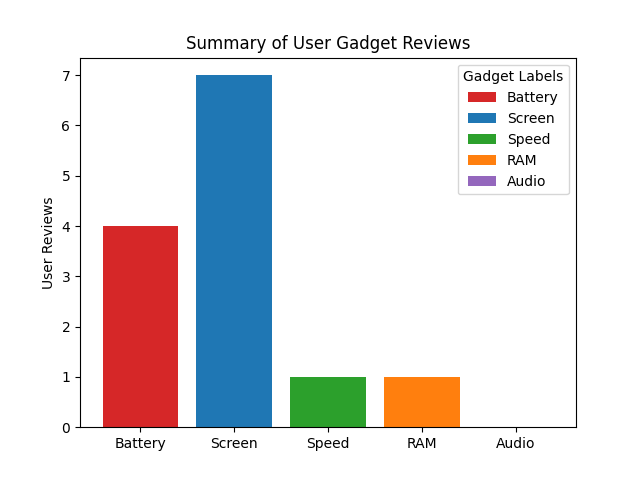
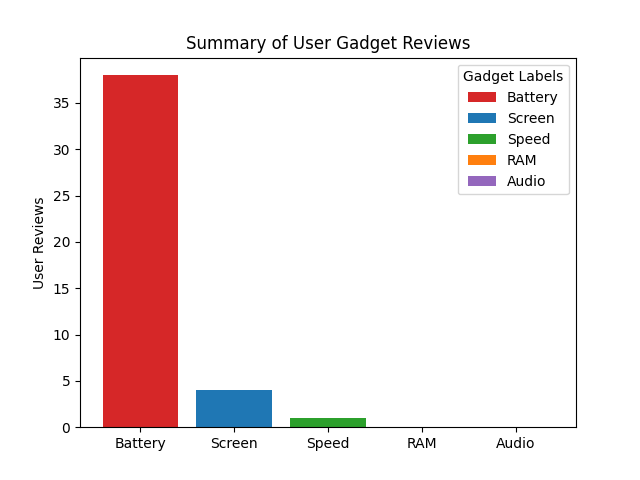
modified:   app.py 	modified:   static/HTML/images/Summary_Graph.png 	modified:   templates/index.html

diff --git a/templates/index.html b/templates/index.html
@@ -226,7 +226,7 @@
               <div class="card-header card-bgcolor-head"><i class="fa-solid fa-cart-shopping"></i> Recommendation Result from Prediction</div>
               <div class="card-body overflow-auto" style="height: 250px;">
                   <p class="card-text ">Based on Model Simulated using LSTM
-                    {{str_result_reco}}
+                    {{str_result_reco | safe }}
                   </p>
               </div>
           </div>

diff --git a/app.py b/app.py
@@ -28,35 +28,56 @@ app = Flask(__name__)
 mysqlconn = mysql.connector.connect(host="localhost", user="root", password="", database="dbmain_dissertation")
 sqlengine = create_engine('mysql+mysqlconnector://root@localhost/dbmain_dissertation', pool_recycle=1800)
 
-class ProductLSTM(nn.Module):
-    def __init__(self, vocab_size, embed_dim, hidden_dim):
-        super().__init__()
-        self.embed = nn.Embedding(vocab_size, embed_dim, padding_idx=0)
-        self.lstm = nn.LSTM(embed_dim, hidden_dim, batch_first=True)
-        self.fc1 = nn.Linear(hidden_dim + 1, 64)
-        self.fc2 = nn.Linear(64, 1)
-
-    def forward(self, x, rating):
-        embedded = self.embed(x)
-        _, (h_n, _) = self.lstm(embedded)
-        h_n = h_n.squeeze(0)
-        combined = torch.cat((h_n, rating.unsqueeze(1)), dim=1)
-        out = torch.relu(self.fc1(combined))
-        return torch.sigmoid(self.fc2(out))
-    
 MAX_LEN = 30
 
-@app.route("/generaterecomendation", methods=["GET", "POST"])
+def sub_datacleaning_reco(temp_df):
+    # custom_stopwords = ['also', 'dad', 'mom', 'kids', 'christmas', 'hoping']
 
-# -------------------------------------------------- 
-# For Index.html
-# --------------------------------------------------
+    #Remove Column Username since this column is unnecessary
+    temp_df["Reviews"] = temp_df["Reviews"].str.lower()
+
+    # All records with not value for REVIEWS will be dropped
+    if temp_df["Reviews"].isnull().values.any() == True:
+        temp_df = temp_df.dropna(subset=['Reviews'], axis=0,how='any',inplace=False)
+
+    # Replace all special characters into black spaces which will also be remove
+    temp_df["Reviews"] = temp_df["Reviews"].str.replace("\n",' ')
+    temp_df["Reviews"] = temp_df["Reviews"].str.replace("\r",' ')
+    temp_df["Reviews"] = temp_df["Reviews"].replace(r'http\S+', '', regex=True)
+    temp_df["Reviews"] = temp_df["Reviews"].replace(r"x000D", '', regex=True)
+    temp_df["Reviews"] = temp_df["Reviews"].replace(r'<[^>]+>', '', regex= True)        
+    temp_df["Reviews"] = temp_df["Reviews"].replace('[^a-zA-Z0-9]', ' ', regex=True)
+    temp_df["Reviews"] = temp_df["Reviews"].replace(r"\s+[a-zA-Z]\s+", ' ', regex=True) #Eto
+    temp_df["Reviews"] = temp_df["Reviews"].replace(r" +", ' ', regex=True)
+
+    def tokenize_reviews(review_text):
+        review_sentence = word_tokenize(review_text)
+        return review_sentence
+    temp_df['Reviews'] = temp_df['Reviews'].apply(tokenize_reviews)
+
+    def lemmatize_review(review_text):
+        lemmatizer = WordNetLemmatizer()
+        lemmatize_words = [lemmatizer.lemmatize(word) for word in review_text]
+        lemmatize_text = ' '.join(lemmatize_words)
+        return lemmatize_text
+
+    temp_df['Reviews'] = temp_df['Reviews'].apply(lemmatize_review)    
+    temp_df["Reviews"].replace('', None, inplace=True)
+    
+    if temp_df["Reviews"].isnull().values.any():
+        temp_df = temp_df.dropna(subset=['Reviews'], axis=0,how='any',inplace=False)
+    
+    # temp_df["Rating"] = temp_df["Rating"].astype(str)
+    temp_df["Rating"] = temp_df["Rating"].astype(int)
+    temp_df = temp_df.drop(temp_df[temp_df["Rating"]==3].index, inplace=False)
+    return temp_df
 
 def load_models(vocab_size, embed_size, hidden_size):
     model = ProductLSTM(vocab_size,embed_size, hidden_size)     #vocab, 64 , 128
     model.load_state_dict(torch.load('saved_weights_model2.pt'))
     model.eval() # Set to evaluation mode
     print ("Properly Loaded")
+    return model
 
 def tokenize(sentence):
     return word_tokenize(sentence.lower())
@@ -72,7 +93,6 @@ def encode_sentence(sentence):
     return ids + [0] * (MAX_LEN - len(ids))
 
 def predict_for_product(df, model, product_name):
-    # product_name = "tab m9"  # You can remove this if product_name is passed as an argument
 
     # Collect all reviews for this product
     product_reviews = [
@@ -94,51 +114,75 @@ def predict_for_product(df, model, product_name):
     avg_score = sum(predictions) / len(predictions)
     return "Recommend" if avg_score >= 0.5 else "Not Recommend"
 
+class ProductLSTM(nn.Module):
+    def __init__(self, vocab_size, embed_dim, hidden_dim):
+        super().__init__()
+        self.embed = nn.Embedding(vocab_size, embed_dim, padding_idx=0)
+        self.lstm = nn.LSTM(embed_dim, hidden_dim, batch_first=True)
+        self.fc1 = nn.Linear(hidden_dim + 1, 64)
+        self.fc2 = nn.Linear(64, 1)
+
+    def forward(self, x, rating):
+        embedded = self.embed(x)
+        _, (h_n, _) = self.lstm(embedded)
+        h_n = h_n.squeeze(0)
+        combined = torch.cat((h_n, rating.unsqueeze(1)), dim=1)
+        out = torch.relu(self.fc1(combined))
+        return torch.sigmoid(self.fc2(out))
+    
+mysqlconn.reconnect()
+sqlstring_reco = "SELECT * FROM gadget_reviews"
+temp_df = pd.read_sql(sqlstring_reco, mysqlconn)    
+df = sub_datacleaning_reco(temp_df)
+
+df['Recommend'] = ''
+df.loc[df['Rating'] >= 4, 'Recommend'] = "Recommend"
+df.loc[df['Rating'] <= 2, 'Recommend'] = "Not Recommend"
+label2id = {"Recommend": 1, "Not Recommend": 0}
+id2label = {1: "Recommend", 0: "Not Recommend"}
+df2= df[['Reviews', 'Rating','Model', 'Recommend']]
+
+vocab = set()
+for reviews in df['Reviews']:
+    vocab.update(tokenize(reviews))
+for model1 in df['Model']:
+    vocab.update(tokenize(model1))
+
+word2idx = {word: i+1 for i, word in enumerate(vocab)}  # reserve 0 for padding
+word2idx["<PAD>"] = 0
+
+model = load_models(len(word2idx), 64, 128)
+
+@app.route("/generaterecomendation", methods=["GET", "POST"])
+
+# -------------------------------------------------- 
+# For Index.html
+# --------------------------------------------------
+
+
 def modelrecommendation():
     brands = session["brands"]
     type = session["type"]
-    model = session["model"]
+    gadgetmodel = session["model"]
 
-    complete_gadget = brands + " " + type + " " + model
-    item_desc = brands +  " " + model
+    complete_gadget = brands + " " + type + " " + gadgetmodel
+    item_desc = brands +  " " + gadgetmodel
     mysqlconn.reconnect()
-    sqlstring = "SELECT * FROM gadget_reviews where Brand='" +brands+"' and Type='"+type+"' and Model='"+model+"'"
+    sqlstring = "SELECT * FROM gadget_reviews where Brand='" +brands+"' and Type='"+type+"' and Model='"+gadgetmodel + "'"
     temp_df = pd.read_sql(sqlstring, mysqlconn)
-    df = sub_datacleaning(temp_df)
+    temp_df = sub_datacleaning(temp_df)
     
-    mysqlconn.reconnect()
-    sqlstring_reco = "SELECT * FROM gadget_reviews"
-    temp_df = pd.read_sql(sqlstring_reco, mysqlconn)    
-    df = sub_datacleaning_reco(temp_df)
-
-    df['Recommend'] = ''
-    df.loc[df['Rating'] >= 4, 'Recommend'] = "Recommend"
-    df.loc[df['Rating'] <= 2, 'Recommend'] = "Not Recommend"
-    label2id = {"Recommend": 1, "Not Recommend": 0}
-    id2label = {1: "Recommend", 0: "Not Recommend"}
-    df2= df[['Reviews', 'Rating','Model', 'Recommend']]
-
-    vocab = set()
-    for reviews in df['Reviews']:
-        vocab.update(tokenize(reviews))
-    for model1 in df['Model']:
-        vocab.update(tokenize(model1))
-    word2idx = {word: i+1 for i, word in enumerate(vocab)}  # reserve 0 for padding
-    word2idx["<PAD>"] = 0
-
-    load_models(len(word2idx), 64, 128)
-
     # Run Inference
-    product_input = session["model"] #gadget model ito
+    product_input = gadgetmodel #gadget model ito
     result = predict_for_product(df2, model, product_input)
-    str_result_reco = result + "TEST MESSAGE"   
+    str_result_reco ="Based on the Reviews and Rating from different users, this gadget is: " + result   
 
     attrib_table(temp_df)
     top_reco, k_count = sub_KMeans(type)
-    summary_reco, featured_reco, detailed_reco = sub_recommendation_summary(model)
+    summary_reco, featured_reco, detailed_reco = sub_recommendation_summary(gadgetmodel)
     attrib_graph(summary_reco)
     airesult = sub_AIresult(item_desc)
-    dev_images1,dev_images2,dev_images3,dev_images4 = sub_OpenAI(model, type, brands)
+    dev_images1,dev_images2,dev_images3,dev_images4 = sub_OpenAI(gadgetmodel, type, brands)
     shop_loc_list = sub_AIresult_Shop_Loc(item_desc)
 
     # train_loss, train_accs, test_loss, test_accs = sub_LSTM(temp_df)
@@ -164,7 +208,6 @@ def modelrecommendation():
                         epoch_test_accs = test_accs,
                         summary_graph = "./static/HTML/images/Summary_Graph.png"
                         )
-
 
 @app.route("/uploadCSV", methods=["GET", "POST"])
 
@@ -450,50 +493,6 @@ def sub_datacleaning(temp_df):
         temp_df = temp_df.drop(temp_df[temp_df["Rating"]==3].index, inplace=False)
         return temp_df
 
-def sub_datacleaning_reco(temp_df):
-    # custom_stopwords = ['also', 'dad', 'mom', 'kids', 'christmas', 'hoping']
-
-    #Remove Column Username since this column is unnecessary
-    temp_df["Reviews"] = temp_df["Reviews"].str.lower()
-
-    # All records with not value for REVIEWS will be dropped
-    if temp_df["Reviews"].isnull().values.any() == True:
-        temp_df = temp_df.dropna(subset=['Reviews'], axis=0,how='any',inplace=False)
-
-    # Replace all special characters into black spaces which will also be remove
-    temp_df["Reviews"] = temp_df["Reviews"].str.replace("\n",' ')
-    temp_df["Reviews"] = temp_df["Reviews"].str.replace("\r",' ')
-    temp_df["Reviews"] = temp_df["Reviews"].replace(r'http\S+', '', regex=True)
-    temp_df["Reviews"] = temp_df["Reviews"].replace(r"x000D", '', regex=True)
-    temp_df["Reviews"] = temp_df["Reviews"].replace(r'<[^>]+>', '', regex= True)        
-    temp_df["Reviews"] = temp_df["Reviews"].replace('[^a-zA-Z0-9]', ' ', regex=True)
-    temp_df["Reviews"] = temp_df["Reviews"].replace(r"\s+[a-zA-Z]\s+", ' ', regex=True) #Eto
-    temp_df["Reviews"] = temp_df["Reviews"].replace(r" +", ' ', regex=True)
-
-    def tokenize_reviews(review_text):
-        review_sentence = word_tokenize(review_text)
-        return review_sentence
-    temp_df['Reviews'] = temp_df['Reviews'].apply(tokenize_reviews)
-
-    def lemmatize_review(review_text):
-        lemmatizer = WordNetLemmatizer()
-        lemmatize_words = [lemmatizer.lemmatize(word) for word in review_text]
-        lemmatize_text = ' '.join(lemmatize_words)
-        return lemmatize_text
-
-    temp_df['Reviews'] = temp_df['Reviews'].apply(lemmatize_review)    
-    temp_df["Reviews"].replace('', None, inplace=True)
-    
-    if temp_df["Reviews"].isnull().values.any():
-        temp_df = temp_df.dropna(subset=['Reviews'], axis=0,how='any',inplace=False)
-    
-    # temp_df["Rating"] = temp_df["Rating"].astype(str)
-    temp_df["Rating"] = temp_df["Rating"].astype(int)
-    temp_df = temp_df.drop(temp_df[temp_df["Rating"]==3].index, inplace=False)
-    return temp_df
-
-
-
 def attrib_table(temp_df_attrib):
     
     #--------------------------------------------------------------------------------------------
@@ -577,78 +576,76 @@ def attrib_graph(data_count):
     plt.savefig(".\static\HTML\images\Summary_Graph.png")
     plt.close()
 
-
-
 #--------------------------------------------------------------------
 # CONFUSION MATRIX, PRECISION, RECALL AND F1 SCORE
 #--------------------------------------------------------------------
-# def evaluate_lstm_test_train_result(epoch_train_accs, epoch_test_accs, epoch_train_losses, epoch_test_losses):
-#     import matplotlib.pyplot as plt
-#     fig = plt.figure(figsize = (10, 3))
+def evaluate_lstm_test_train_result(epoch_train_accs, epoch_test_accs, epoch_train_losses, epoch_test_losses):
+    import matplotlib.pyplot as plt
+    fig = plt.figure(figsize = (10, 3))
 
-#     plt.subplot(1, 2, 1)
-#     plt.plot(epoch_train_accs, label='Train Accuracy')
-#     plt.plot(epoch_test_accs, label='Test Accuracy')
-#     plt.title("Train and Test Accuracy of LSTM model")
-#     plt.ylabel("Accuracy Percentage")
-#     plt.xlabel("No. of Epochs")
-#     plt.legend()
-#     plt.grid()
+    plt.subplot(1, 2, 1)
+    plt.plot(epoch_train_accs, label='Train Accuracy')
+    plt.plot(epoch_test_accs, label='Test Accuracy')
+    plt.title("Train and Test Accuracy of LSTM model")
+    plt.ylabel("Accuracy Percentage")
+    plt.xlabel("No. of Epochs")
+    plt.legend()
+    plt.grid()
 
-#     plt.subplot(1, 2, 2)
-#     plt.plot(epoch_train_losses, label='Train Loss')
-#     plt.savefig("static\HTML\images\LSTM_train_acc.png")
-#     plt.plot(epoch_test_losses, label='Test Loss')
-#     plt.savefig("static\HTML\images\LSTM_test_acc.png")
-#     plt.title("Train and Test Losses of LSTM Model")
-#     plt.ylabel("Loss Percentage")
-#     plt.xlabel("No. of Epochs")
-#     plt.legend()
-#     plt.grid()
-#     plt.show()
+    plt.subplot(1, 2, 2)
+    plt.plot(epoch_train_losses, label='Train Loss')
+    plt.savefig("static\HTML\images\LSTM_train_acc.png")
+    plt.plot(epoch_test_losses, label='Test Loss')
+    plt.savefig("static\HTML\images\LSTM_test_acc.png")
+    plt.title("Train and Test Losses of LSTM Model")
+    plt.ylabel("Loss Percentage")
+    plt.xlabel("No. of Epochs")
+    plt.legend()
+    plt.grid()
+    plt.show()
 
-# def evaluate_lstm_model_pytorch(lstm_model, test_loader, label_encoder, device='cpu'):
-#     from sklearn.metrics import confusion_matrix, ConfusionMatrixDisplay, precision_score, recall_score, f1_score
-#     import matplotlib.pyplot as plt
-#     import seaborn as sns
-#     lstm_model.to(device)
-#     lstm_model.eval()
-#     all_preds = []
-#     all_labels = []
+def evaluate_lstm_model_pytorch(lstm_model, test_loader, label_encoder, device='cpu'):
+    from sklearn.metrics import confusion_matrix, ConfusionMatrixDisplay, precision_score, recall_score, f1_score
+    import matplotlib.pyplot as plt
+    import seaborn as sns
+    lstm_model.to(device)
+    lstm_model.eval()
+    all_preds = []
+    all_labels = []
 
-#     with torch.no_grad():
-#         for inputs, labels in test_loader:
-#             inputs, labels = inputs.to(device), labels.to(device)
-#             outputs, _ = lstm_model(inputs)
-#             predicted = (outputs > 0.5).long()  # Convert sigmoid output to binary
-#             all_preds.extend(predicted.cpu().numpy())
-#             all_labels.extend(labels.cpu().numpy())
+    with torch.no_grad():
+        for inputs, labels in test_loader:
+            inputs, labels = inputs.to(device), labels.to(device)
+            outputs, _ = lstm_model(inputs)
+            predicted = (outputs > 0.5).long()  # Convert sigmoid output to binary
+            all_preds.extend(predicted.cpu().numpy())
+            all_labels.extend(labels.cpu().numpy())
 
-#     # Precision, Recall, F1 Score
-#     precision = precision_score(all_labels, all_preds)
-#     recall = recall_score(all_labels, all_preds)
-#     f1 = f1_score(all_labels, all_preds)
+    # Precision, Recall, F1 Score
+    precision = precision_score(all_labels, all_preds)
+    recall = recall_score(all_labels, all_preds)
+    f1 = f1_score(all_labels, all_preds)
     
-#     # Compute confusion matrix
-#     cm = confusion_matrix(all_labels, all_preds)
+    # Compute confusion matrix
+    cm = confusion_matrix(all_labels, all_preds)
 
-#     #Convert Values into percent
-#     cm_percent = cm.astype('float') / cm.sum(axis=1)[:, np.newaxis]
-#     ax = sns.heatmap(cm_percent, annot=True, fmt=".2%", cmap="Blues")   
-#     ax.set_title("Confusion Matrix for LSTM Model")
-#     ax.set_xlabel("Predicted")
-#     ax.set_ylabel("Actual")
+    #Convert Values into percent
+    cm_percent = cm.astype('float') / cm.sum(axis=1)[:, np.newaxis]
+    ax = sns.heatmap(cm_percent, annot=True, fmt=".2%", cmap="Blues")   
+    ax.set_title("Confusion Matrix for LSTM Model")
+    ax.set_xlabel("Predicted")
+    ax.set_ylabel("Actual")
     
-#     #disp = ConfusionMatrixDisplay(confusion_matrix=cm, display_labels=[0, 1])
-#     # disp.plot(cmap=plt.cm.Blues)
-#     # plt.title("Confusion Matrix")
-#     plt.xticks(np.arange(2)+0.5,["Not Recommended", "Recommended"])
-#     plt.yticks(np.arange(2)+0.5,["Not Recommended", "Recommended"])
-#     plt.show()
+    #disp = ConfusionMatrixDisplay(confusion_matrix=cm, display_labels=[0, 1])
+    # disp.plot(cmap=plt.cm.Blues)
+    # plt.title("Confusion Matrix")
+    plt.xticks(np.arange(2)+0.5,["Not Recommended", "Recommended"])
+    plt.yticks(np.arange(2)+0.5,["Not Recommended", "Recommended"])
+    plt.show()
 
-#     print(f"Precision: {precision:.4f}")
-#     print(f"Recall:    {recall:.4f}")
-#     print(f"F1 Score:  {f1:.4f}")
+    print(f"Precision: {precision:.4f}")
+    print(f"Recall:    {recall:.4f}")
+    print(f"F1 Score:  {f1:.4f}")
 
 def sub_KMeans(gadgettype):
     mysqlconn.reconnect()
